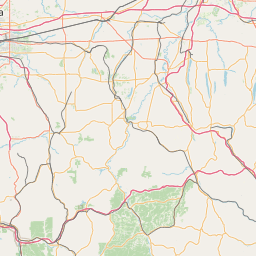
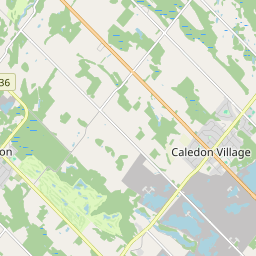
Cleanup,

diff --git a/example.c b/example.c
@@ -11,7 +11,7 @@ int main(int argc, char** argv)
 
     DMapHandle map = d_make_map(&(DMapInitDesc){
         .position = latlng(43.9153,-80.1086),
-        .zoom = 8
+        .zoom = 12
     });
 
     int x,y;

diff --git a/impl/drumlin.c b/impl/drumlin.c
@@ -2,7 +2,6 @@
 #include <stdarg.h>
 #include <stdio.h>
 #include <stdlib.h>
-
 #include <drumlin/drumlin.h>
 #include <drumlin/logging.h>
 #include <drumlin/tileservice.h>

diff --git a/impl/tileservice/sokol/tileservice_curl.c b/impl/tileservice/sokol/tileservice_curl.c
@@ -1,6 +1,7 @@
 #include <curl/curl.h>
 #include <errno.h>
 #include <fcntl.h>
+
 #include <string.h>
 #include <sys/stat.h>
 #include <unistd.h>
